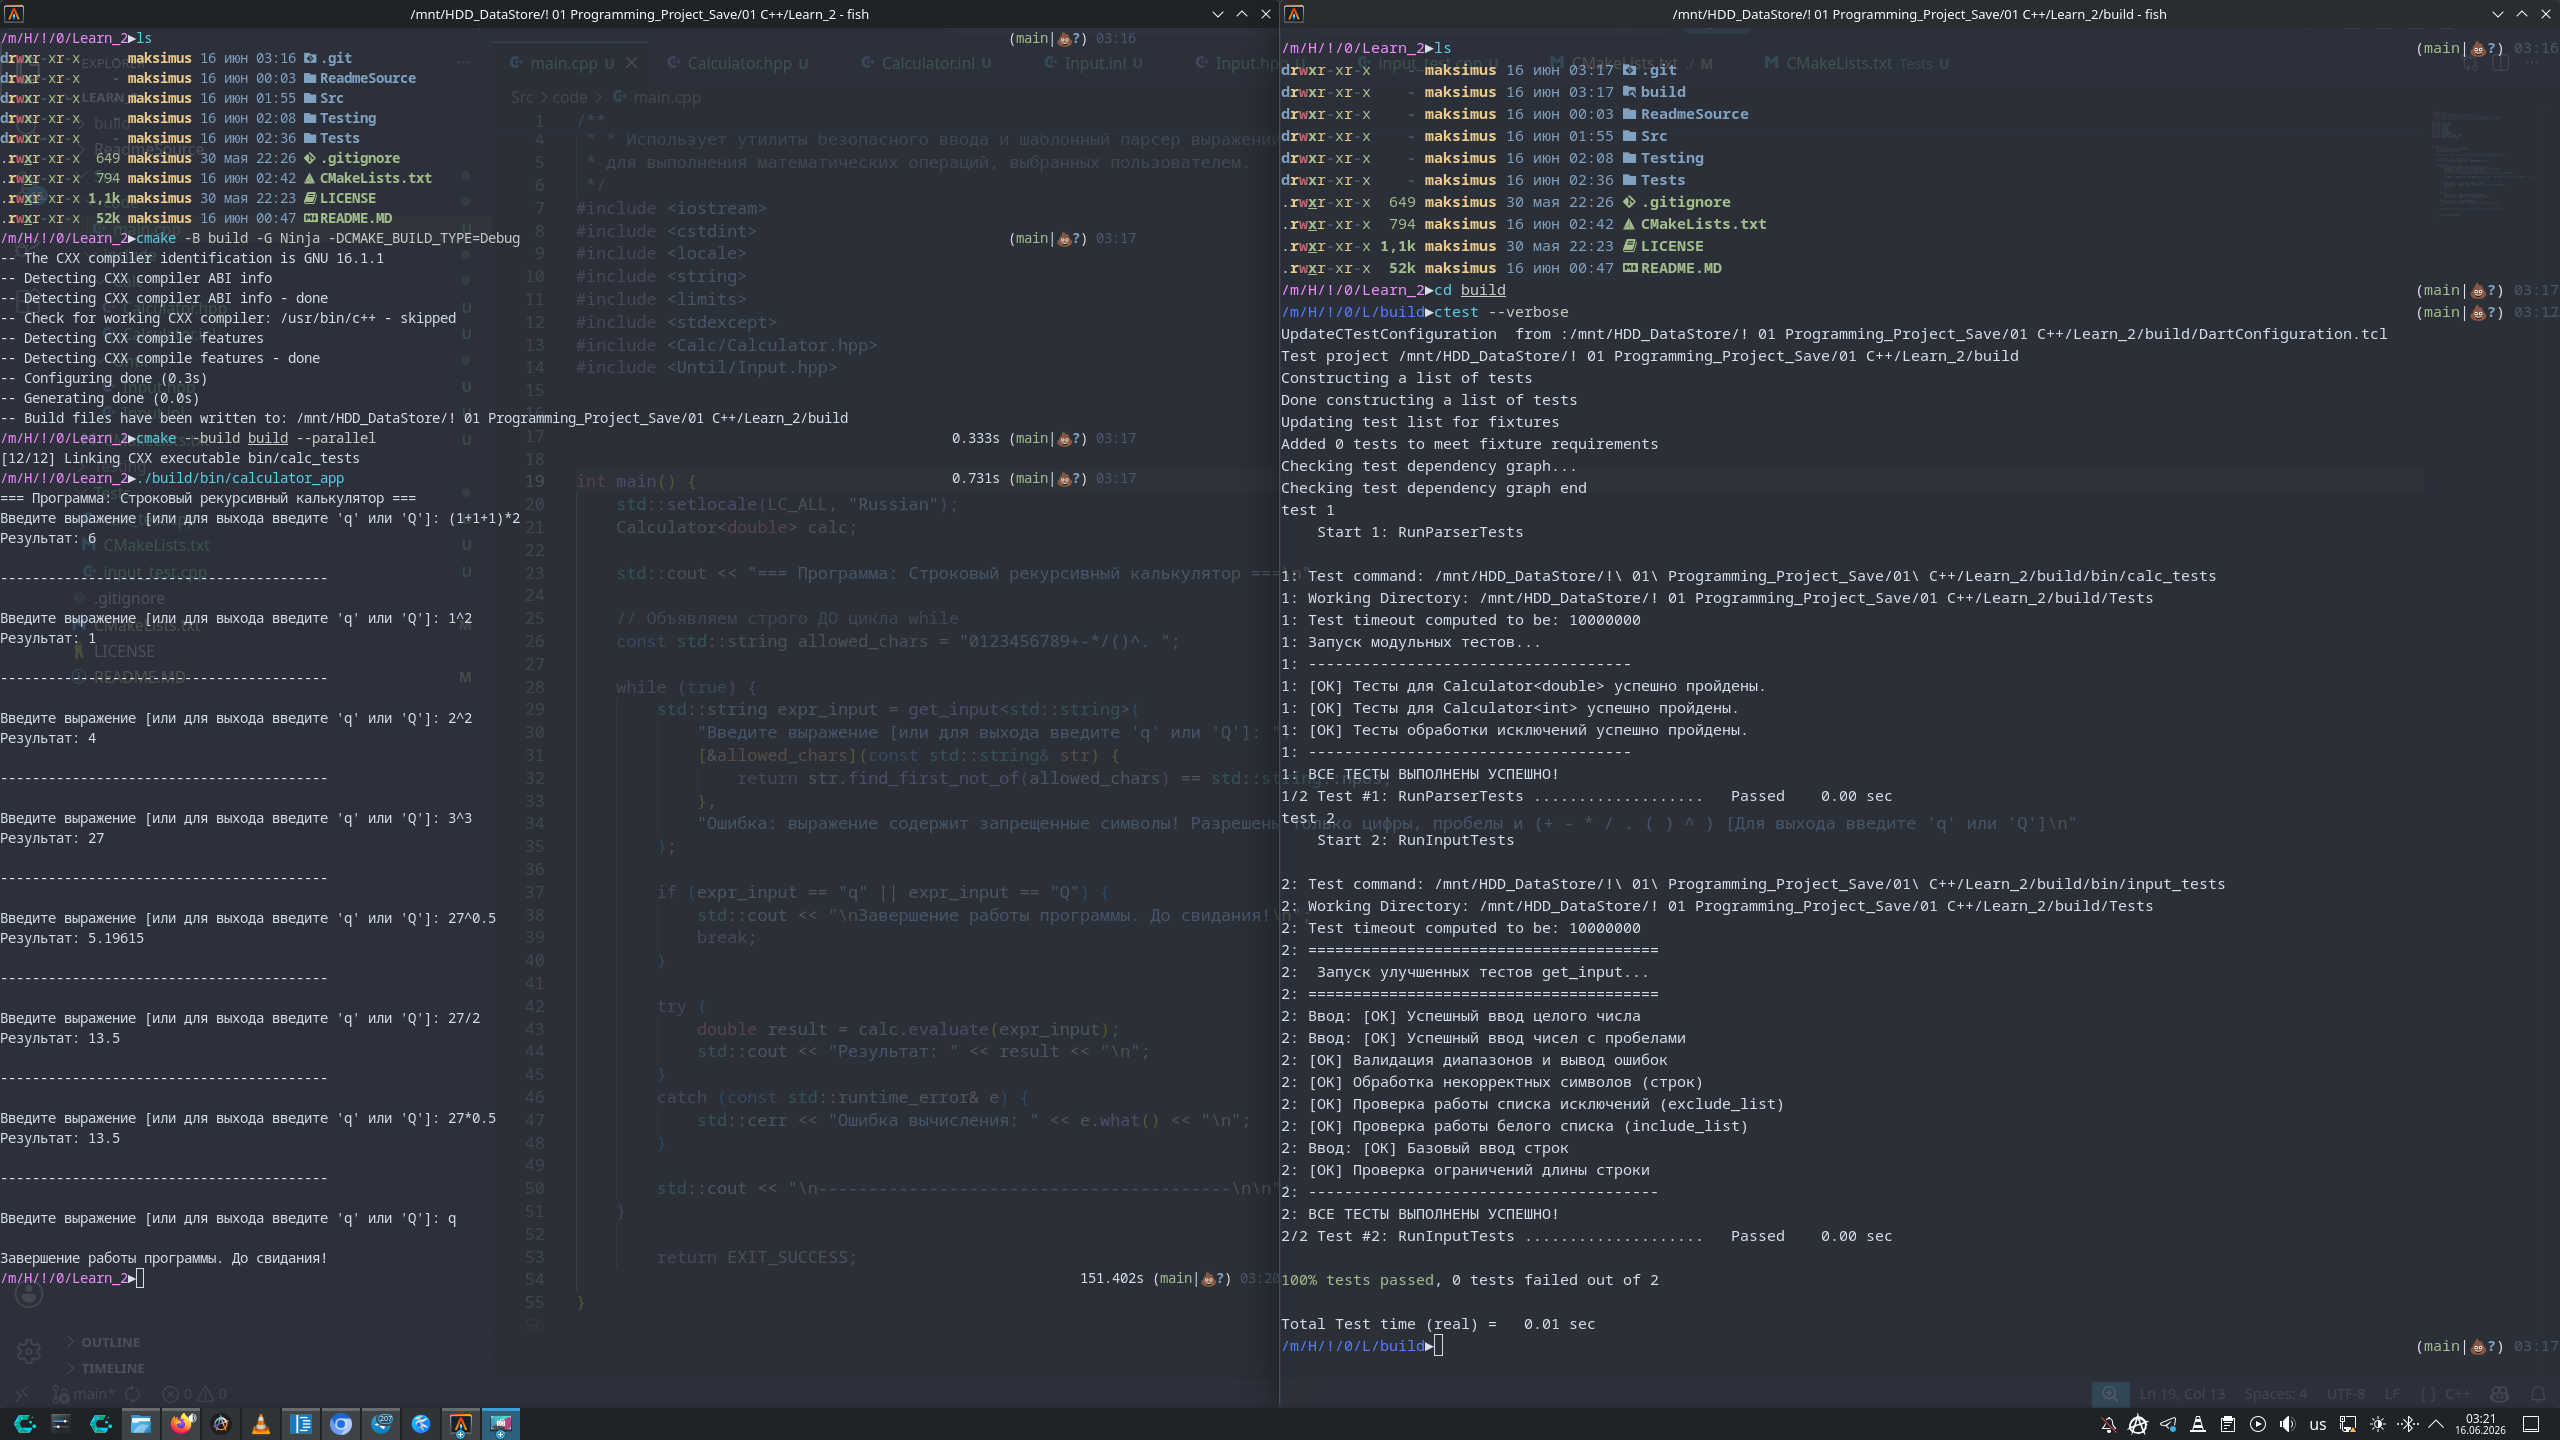
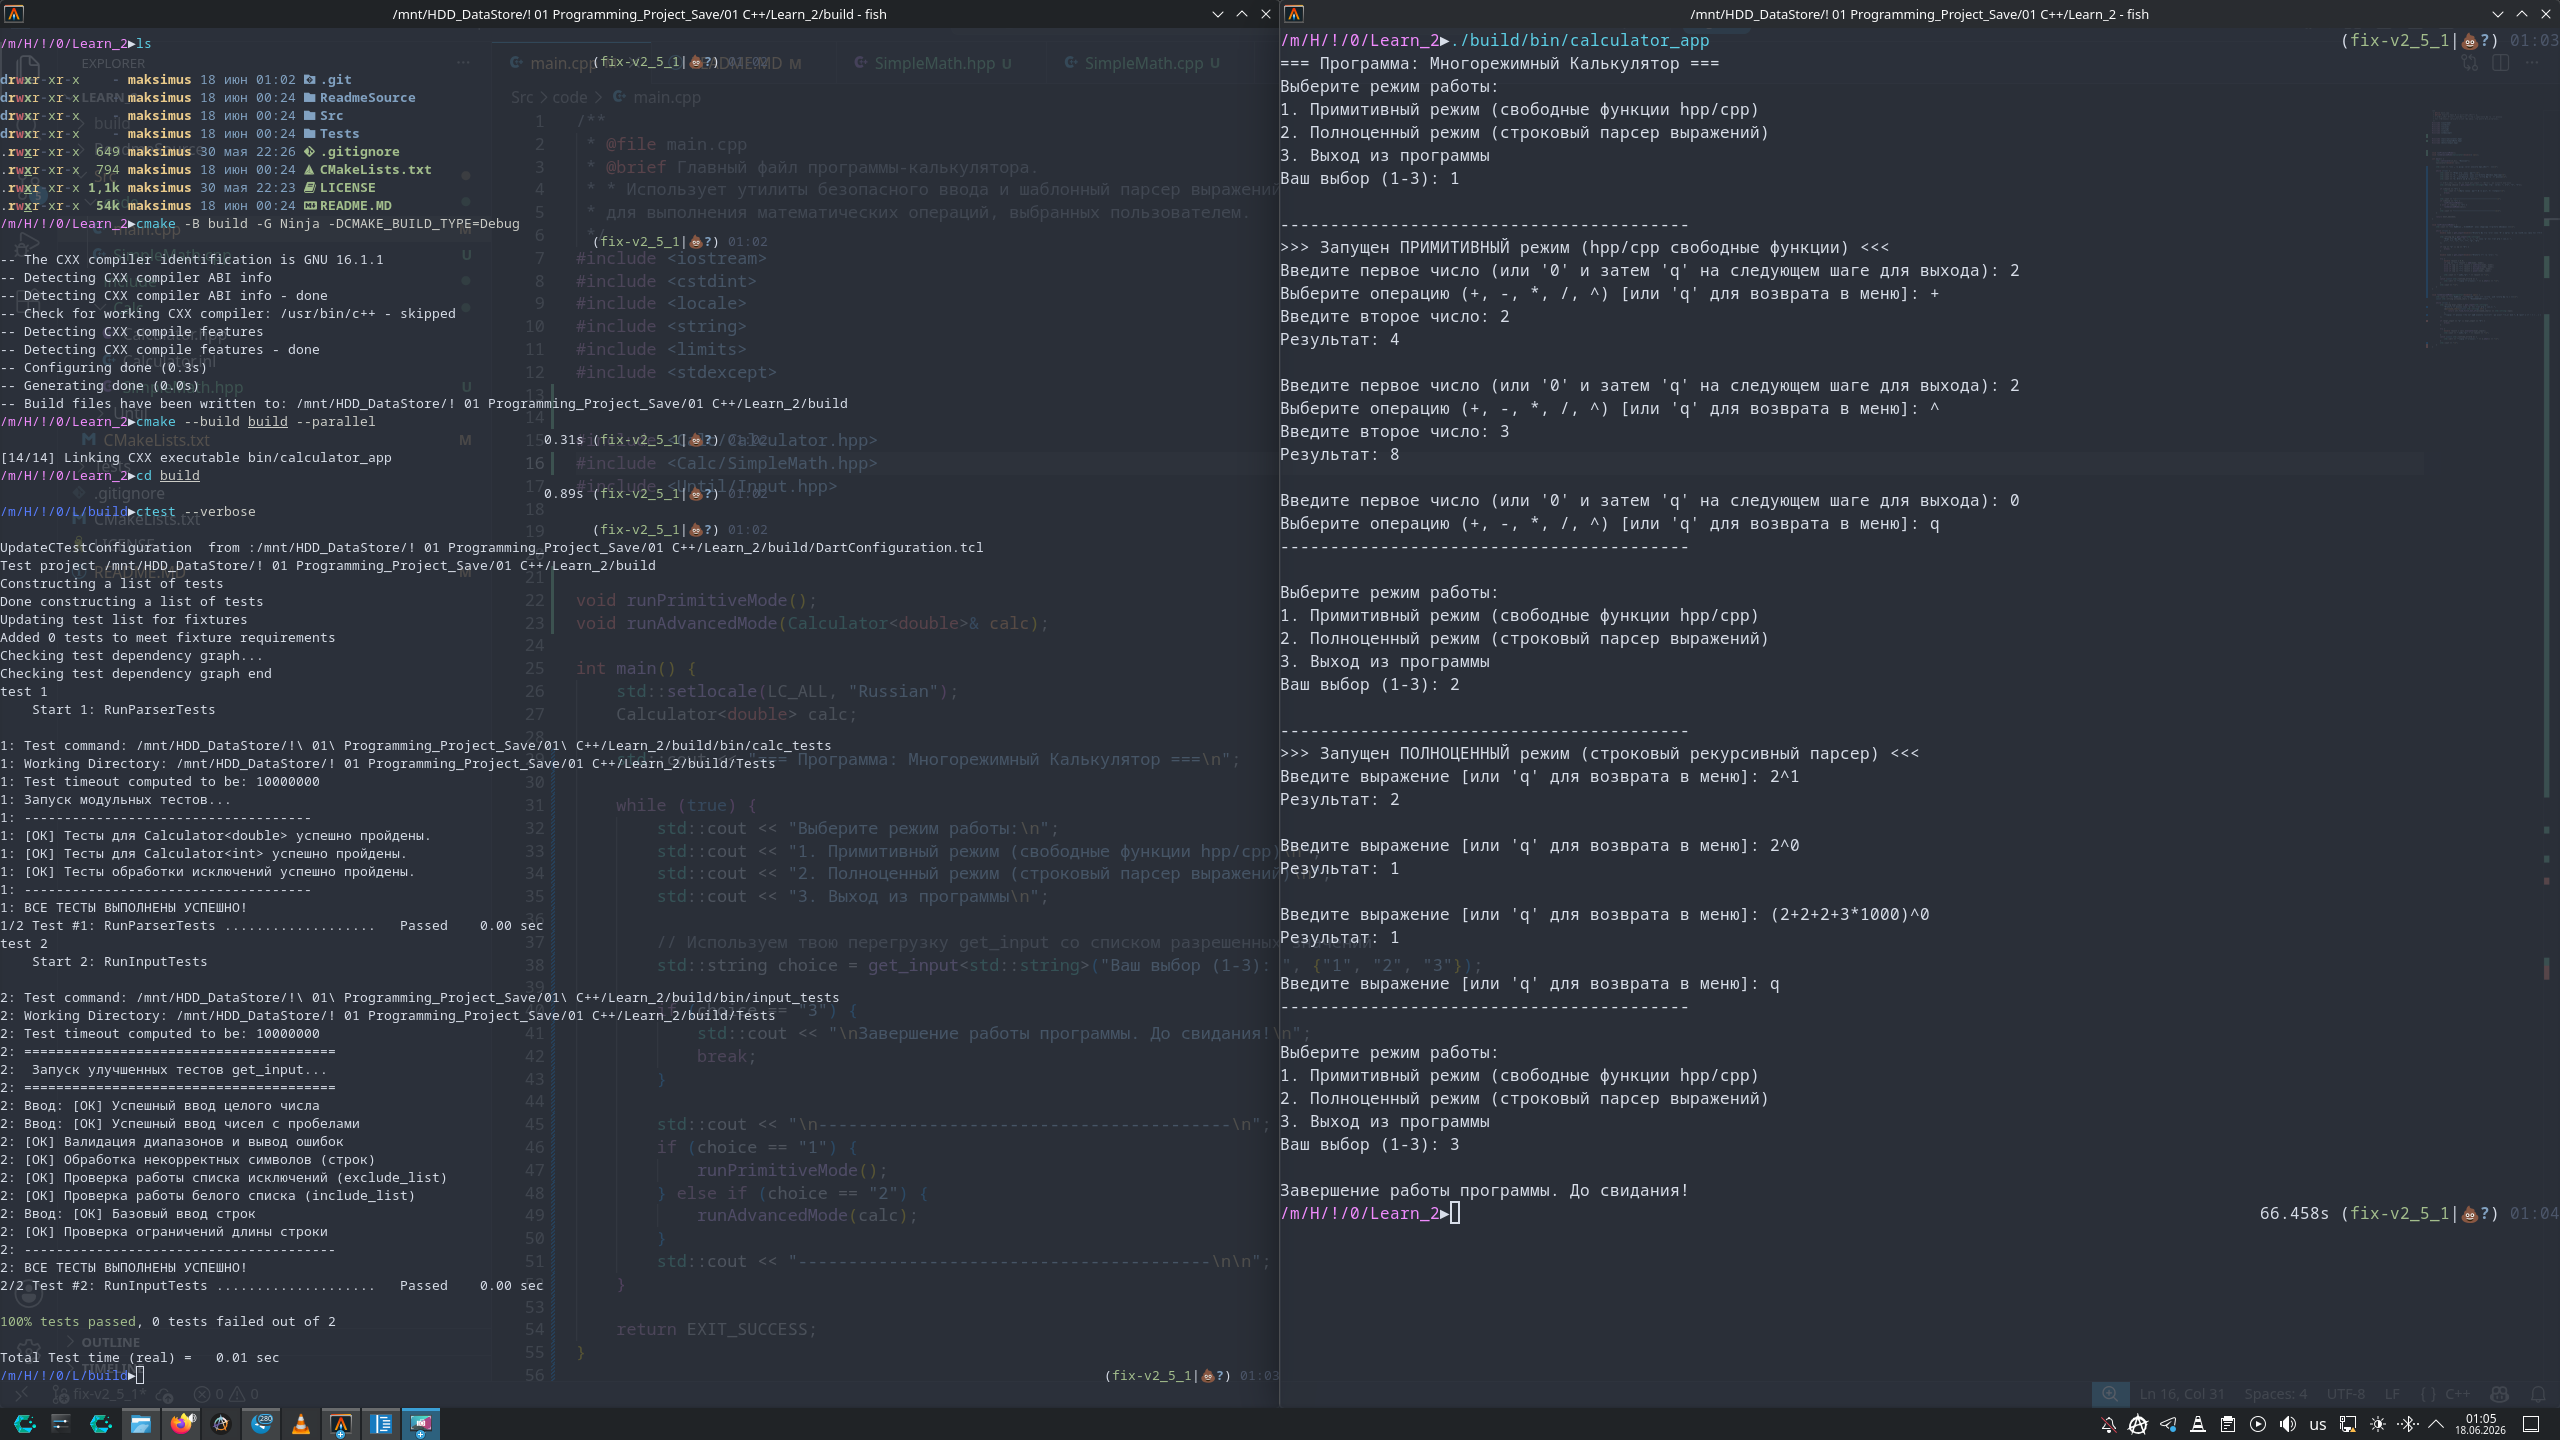
v2.5.1 Модификация исполнения Выполнено

diff --git a/Src/code/main.cpp b/Src/code/main.cpp
@@ -10,32 +10,100 @@
 #include <string>
 #include <limits>
 #include <stdexcept>
+
+
 #include <Calc/Calculator.hpp>
+#include <Calc/SimpleMath.hpp>
 #include <Until/Input.hpp>
 
 
 
 
+void runPrimitiveMode();
+void runAdvancedMode(Calculator<double>& calc);
+
 int main() {
     std::setlocale(LC_ALL, "Russian");
     Calculator<double> calc;
 
-    std::cout << "=== Программа: Строковый рекурсивный калькулятор ===\n";
+    std::cout << "=== Программа: Многорежимный Калькулятор ===\n";
 
-    // Объявляем строго ДО цикла while
+    while (true) {
+        std::cout << "Выберите режим работы:\n";
+        std::cout << "1. Примитивный режим (свободные функции hpp/cpp)\n";
+        std::cout << "2. Полноценный режим (строковый парсер выражений)\n";
+        std::cout << "3. Выход из программы\n";
+
+        // Используем твою перегрузку get_input со списком разрешенных значений
+        std::string choice = get_input<std::string>("Ваш выбор (1-3): ", {"1", "2", "3"});
+
+        if (choice == "3") {
+            std::cout << "\nЗавершение работы программы. До свидания!\n";
+            break;
+        }
+
+        std::cout << "\n-----------------------------------------\n";
+        if (choice == "1") {
+            runPrimitiveMode();
+        } else if (choice == "2") {
+            runAdvancedMode(calc);
+        }
+        std::cout << "-----------------------------------------\n\n";
+    }
+
+    return EXIT_SUCCESS;
+}
+
+
+void runPrimitiveMode() {
+    std::cout << ">>> Запущен ПРИМИТИВНЫЙ режим (hpp/cpp свободные функции) <<<\n";
+    
+    while (true) {
+        double num1 = get_input<double>("Введите первое число (или '0' и затем 'q' на следующем шаге для выхода): ");
+        
+        std::string op = get_input<std::string>(
+            "Выберите операцию (+, -, *, /, ^) [или 'q' для возврата в меню]: ", 
+            {"+", "-", "*", "/", "^", "q", "Q"}
+        );
+        
+        if (op == "q" || op == "Q") {
+            break;
+        }
+
+        double num2 = get_input<double>("Введите второе число: ");
+
+        try {
+            double result = 0.0;
+            if (op == "+") result = add(num1, num2);
+            else if (op == "-") result = subtract(num1, num2);
+            else if (op == "*") result = multiply(num1, num2);
+            else if (op == "/") result = divide(num1, num2);
+            else if (op == "^") result = power(num1, num2);
+
+            std::cout << "Результат: " << result << "\n";
+        } 
+        catch (const std::runtime_error& e) {
+            std::cerr << "Ошибка вычисления: " << e.what() << "\n";
+        }
+        std::cout << "\n";
+    }
+}
+
+
+void runAdvancedMode(Calculator<double>& calc) {
+    std::cout << ">>> Запущен ПОЛНОЦЕННЫЙ режим (строковый рекурсивный парсер) <<<\n";
     const std::string allowed_chars = "0123456789+-*/()^. ";
 
     while (true) {
         std::string expr_input = get_input<std::string>(
-            "Введите выражение [или для выхода введите 'q' или 'Q']: ",
+            "Введите выражение [или 'q' для возврата в меню]: ",
             [&allowed_chars](const std::string& str) {
                 return str.find_first_not_of(allowed_chars) == std::string::npos;
             },
-            "Ошибка: выражение содержит запрещенные символы! Разрешены только цифры, пробелы и (+ - * / . ( ) ^ ) [Для выхода введите 'q' или 'Q']\n"
+            "Ошибка: выражение содержит запрещенные символы! Разрешены только цифры, пробелы и (+ - * / . ( ) ^ )\n"
         );
 
         if (expr_input == "q" || expr_input == "Q") {
-            std::cout << "\nЗавершение работы программы. До свидания!\n";
             break;
         }
 
@@ -46,10 +114,6 @@ int main() {
         catch (const std::runtime_error& e) {
             std::cerr << "Ошибка вычисления: " << e.what() << "\n";
         }
-
-        std::cout << "\n-----------------------------------------\n\n";
+        std::cout << "\n";
     }
-
-        return EXIT_SUCCESS;
-
 }

diff --git a/Src/code/SimpleMath.cpp b/Src/code/SimpleMath.cpp
@@ -1,0 +1,26 @@
+#include <Calc/SimpleMath.hpp>
+#include <stdexcept>
+#include <cmath>
+
+double add(double a, double b) {
+    return a + b;
+}
+
+double subtract(double a, double b) {
+    return a - b;
+}
+
+double multiply(double a, double b) {
+    return a * b;
+}
+
+double divide(double a, double b) {
+    if (b == 0.0) {
+        throw std::runtime_error("Деление на ноль!");
+    }
+    return a / b;
+}
+
+double power(double base, double exp) {
+    return std::pow(base, exp);
+}

diff --git a/Src/include/Calc/SimpleMath.hpp b/Src/include/Calc/SimpleMath.hpp
@@ -1,0 +1,8 @@
+#pragma once
+
+// Объявление свободных функций для базовых математических операций
+double add(double a, double b);
+double subtract(double a, double b);
+double multiply(double a, double b);
+double divide(double a, double b);
+double power(double base, double exp);

diff --git a/README.MD b/README.MD
@@ -63,44 +63,55 @@
 ### Вывод в консоль
 
 ```bash
-/m/H/!/0/Learn_2►./build/bin/calculator_app  
-=== Программа: Строковый рекурсивный калькулятор ===
-Введите выражение [или для выхода введите 'q' или 'Q']: (1+1+1)*2
-Результат: 6
+/m/H/!/0/Learn_2►./build/bin/calculator_app
+=== Программа: Многорежимный Калькулятор ===
+Выберите режим работы:
+1. Примитивный режим (свободные функции hpp/cpp)
+2. Полноценный режим (строковый парсер выражений)
+3. Выход из программы
+Ваш выбор (1-3): 1
 
 -----------------------------------------
-
-Введите выражение [или для выхода введите 'q' или 'Q']: 1^2
-Результат: 1
-
------------------------------------------
-
-Введите выражение [или для выхода введите 'q' или 'Q']: 2^2
+>>> Запущен ПРИМИТИВНЫЙ режим (hpp/cpp свободные функции) <<<
+Введите первое число (или '0' и затем 'q' на следующем шаге для выхода): 2
+Выберите операцию (+, -, *, /, ^) [или 'q' для возврата в меню]: +
+Введите второе число: 2
 Результат: 4
 
+Введите первое число (или '0' и затем 'q' на следующем шаге для выхода): 2
+Выберите операцию (+, -, *, /, ^) [или 'q' для возврата в меню]: ^
+Введите второе число: 3
+Результат: 8
+
+Введите первое число (или '0' и затем 'q' на следующем шаге для выхода): 0
+Выберите операцию (+, -, *, /, ^) [или 'q' для возврата в меню]: q
 -----------------------------------------
 
-Введите выражение [или для выхода введите 'q' или 'Q']: 3^3
-Результат: 27
+Выберите режим работы:
+1. Примитивный режим (свободные функции hpp/cpp)
+2. Полноценный режим (строковый парсер выражений)
+3. Выход из программы
+Ваш выбор (1-3): 2
 
 -----------------------------------------
+>>> Запущен ПОЛНОЦЕННЫЙ режим (строковый рекурсивный парсер) <<<
+Введите выражение [или 'q' для возврата в меню]: 2^1
+Результат: 2
 
-Введите выражение [или для выхода введите 'q' или 'Q']: 27^0.5
-Результат: 5.19615
+Введите выражение [или 'q' для возврата в меню]: 2^0
+Результат: 1
 
+Введите выражение [или 'q' для возврата в меню]: (2+2+2+3*1000)^0
+Результат: 1
+
+Введите выражение [или 'q' для возврата в меню]: q
 -----------------------------------------
 
-Введите выражение [или для выхода введите 'q' или 'Q']: 27/2
-Результат: 13.5
-
------------------------------------------
-
-Введите выражение [или для выхода введите 'q' или 'Q']: 27*0.5
-Результат: 13.5
-
------------------------------------------
-
-Введите выражение [или для выхода введите 'q' или 'Q']: q
+Выберите режим работы:
+1. Примитивный режим (свободные функции hpp/cpp)
+2. Полноценный режим (строковый парсер выражений)
+3. Выход из программы
+Ваш выбор (1-3): 3
 
 Завершение работы программы. До свидания!
 ```